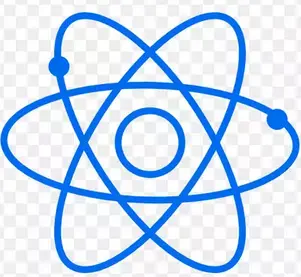
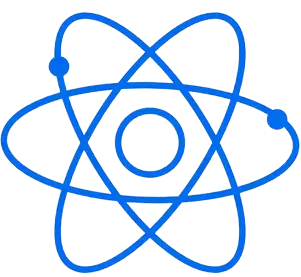
fix: optimisation des images et des icones

Changed region(s): [[0.0, 0.0289, 1.0, 1.0]]

diff --git a/src/components/Card/card.scss b/src/components/Card/card.scss
@@ -30,7 +30,7 @@
        overflow: hidden;
        align-items: center;
        object-fit: cover;
-       filter: grayscale(70%);
+       filter: grayscale(50%);
       }
     }
     .middle{
@@ -74,7 +74,22 @@
       transition: width 0.1s, height 0.1s;
       z-index: 1;
       opacity:0.3;
+      position:relative;
+      .slideshow-container {
+        position: absolute;
+        top: 0;
+        left: 0;
+        width: 100%;
+        height: 100%;
+      }
+      i {
+        font-size: 3rem;
+        position:absolute;
+        top:50px;
+        opacity: 1;
+      }
     }
+   
     &:hover .left{
       display:flex;
       flex-direction: column;
@@ -82,7 +97,7 @@
       max-height: 1000px; 
       width: 10px;
     }
-    &:hover  .left .cardImg {
+    &:hover .left .cardImg {
        width:100%;
        overflow: hidden;
        object-fit: cover;
@@ -106,7 +121,9 @@
       max-height: 1000px;       
       transform: scale(1.1);
       z-index: 2;
-
+      i {
+        display:none;
+      }
     }
   }
 }

diff --git a/src/pages/Home/index.jsx b/src/pages/Home/index.jsx
@@ -3,6 +3,8 @@ import Gallery from '../../components/Gallery';
 import AboutMe from '../../components/AboutMe';
 import Skills from '../../components/Skills';
 import Contact from '../../components/Contact';
+import Footer from '../../components/Footer';
+
 import "../../style/main.scss";
 
 function Home() {
@@ -13,6 +15,7 @@ function Home() {
       <Gallery/>
       <Skills/>
       <Contact/>
+      <Footer/>
     </div>);
 }
 

diff --git a/src/components/Card/index.jsx b/src/components/Card/index.jsx
@@ -61,7 +61,10 @@ function Card() {
             </div>   
 
           <div className="right" > 
-            <Slideshow selHousing={project} />           
+            <div className="SlideshowContainer">
+              <Slideshow selHousing={project} />   
+            </div>
+            <i className="fa-solid fa-magnifying-glass-plus"></i>          
           </div>
         </div>
        

diff --git a/src/components/Footer/index.jsx b/src/components/Footer/index.jsx
@@ -3,10 +3,7 @@ import './footer.scss'
 function Footer({logo, description, text}) {
   return (
 	  <footer className='footer'>
-      <div >
-        <img className="footerImg" src={logo} alt={description} width="122" height="40"/>
-      </div>
-      <div className="footerTitle">{text}</div>
+      <h6>Pascale Pierrard - juillet 2023</h6>
     </footer>   
   )
 }

diff --git a/src/components/Contact/index.js b/src/components/Contact/index.js
@@ -3,8 +3,9 @@ import './contact.scss'
 function Contact() {
   return (
     <section id="contact">
-      <div className="contactMe">
+      
       <h2>Contact</h2>
+      <div className="contactMe">
       <i className="fa-sharp fa-regular fa-envelope"></i>
       <p>pascale.pierrard@laposte.net</p>
       </div>

diff --git a/src/components/Footer/footer.scss b/src/components/Footer/footer.scss
@@ -7,15 +7,8 @@
   align-items: center;
   justify-content: center;
   flex-wrap: wrap;
-  gap: 28px;
-  width: 100%;
-  height: 209px;
-  background-color: $background-color;
 
-  .footerImg, .footerTitle{
-    color: $title-color;
-    font-size: 24px;
-  } 
+
 }
 
 

diff --git a/src/style/main.scss b/src/style/main.scss
@@ -19,7 +19,6 @@ body {
 section {    
   background: #F2F2F2;
   h2 {
-    margin : auto;
     padding : 50px;
   }
 }
